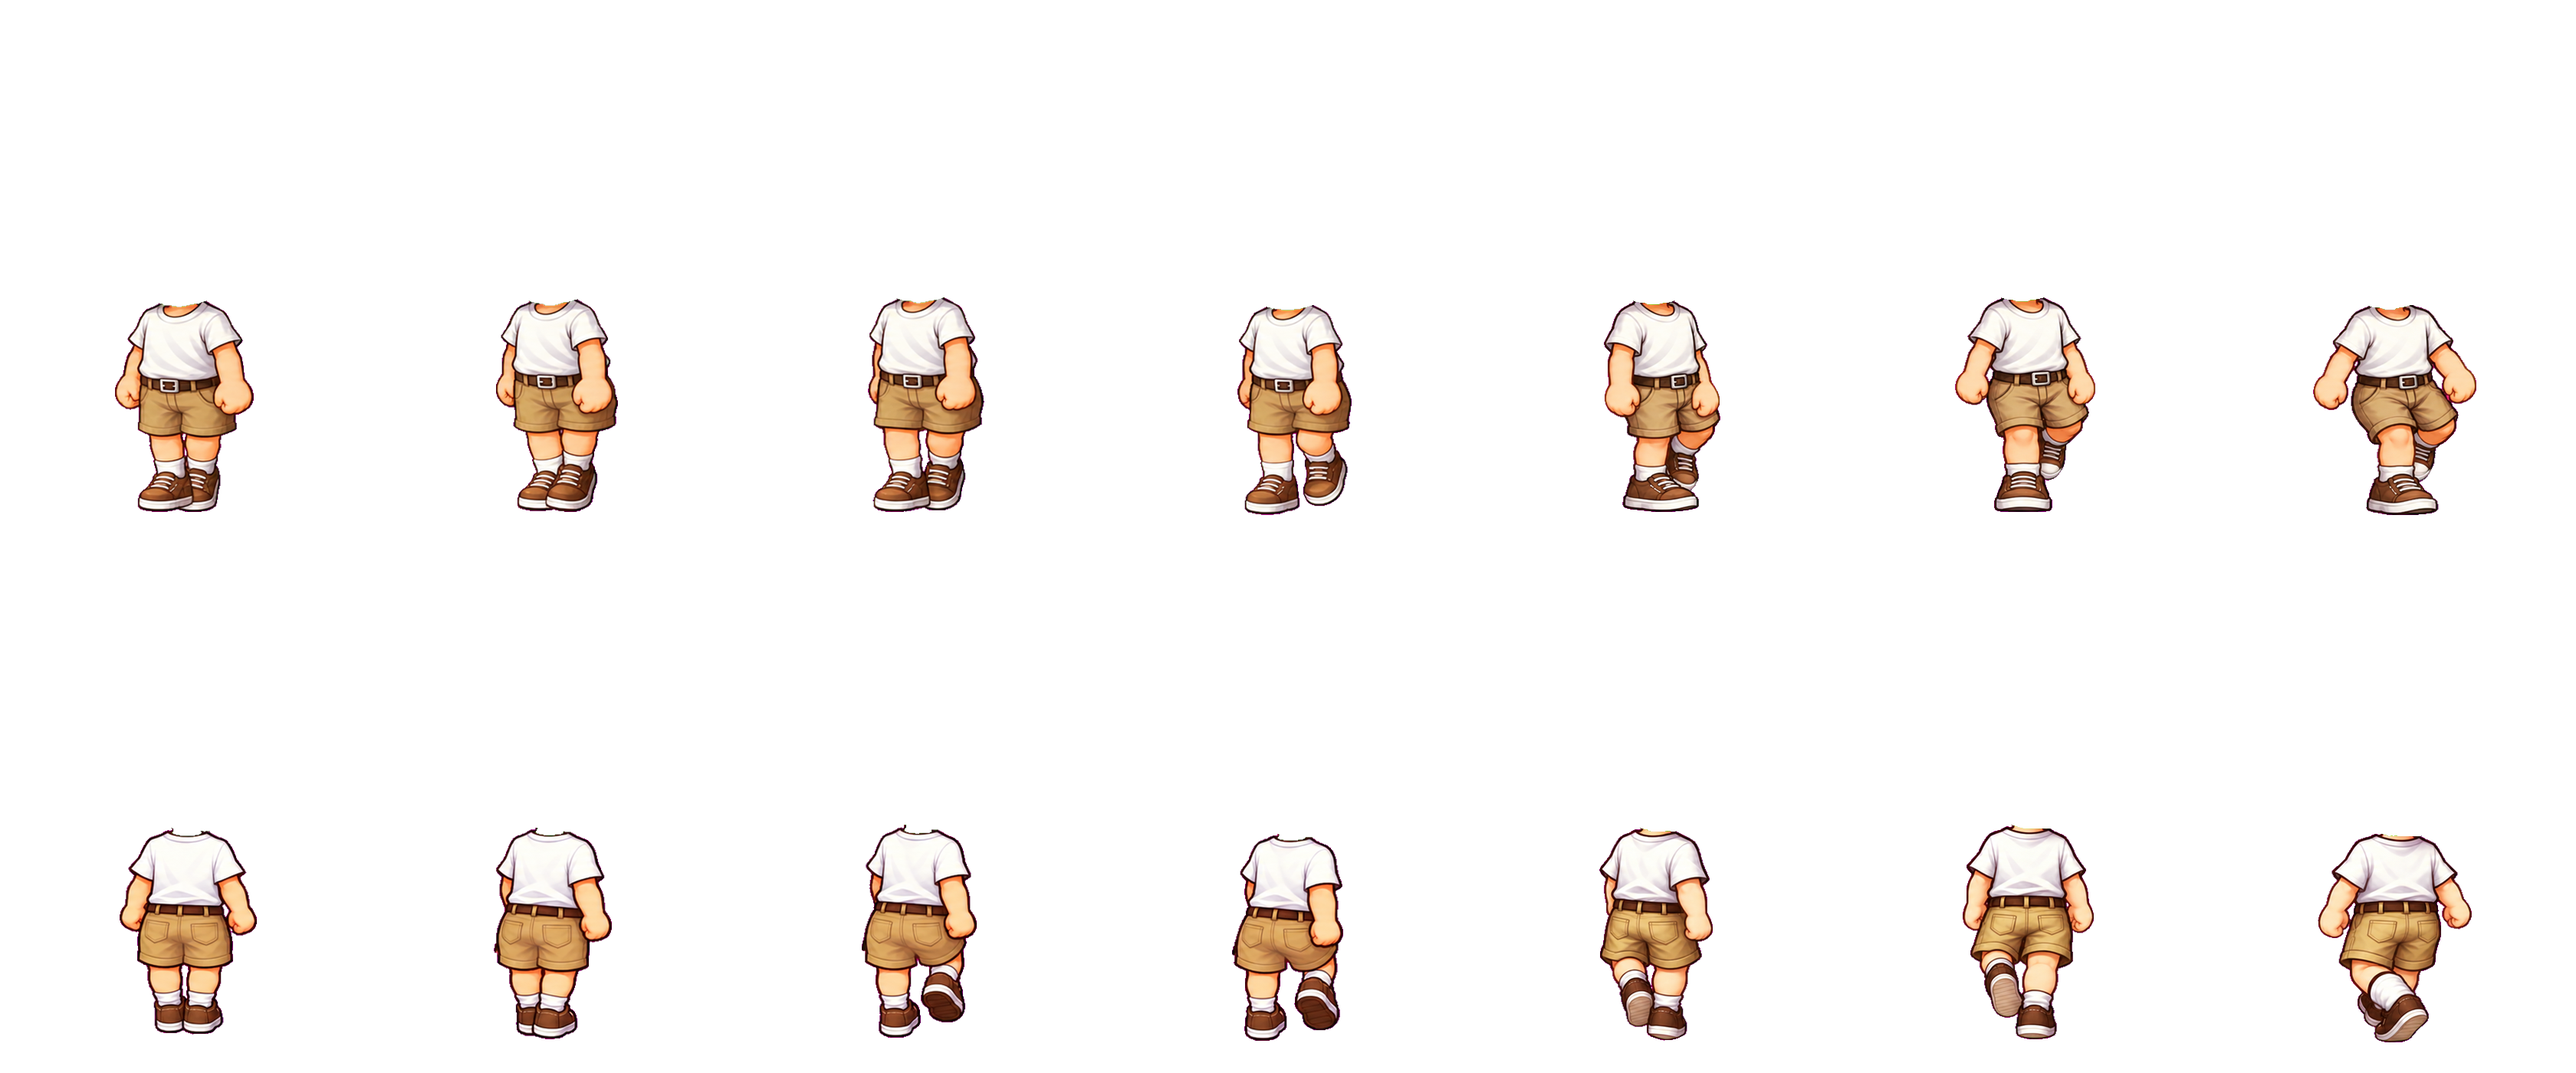
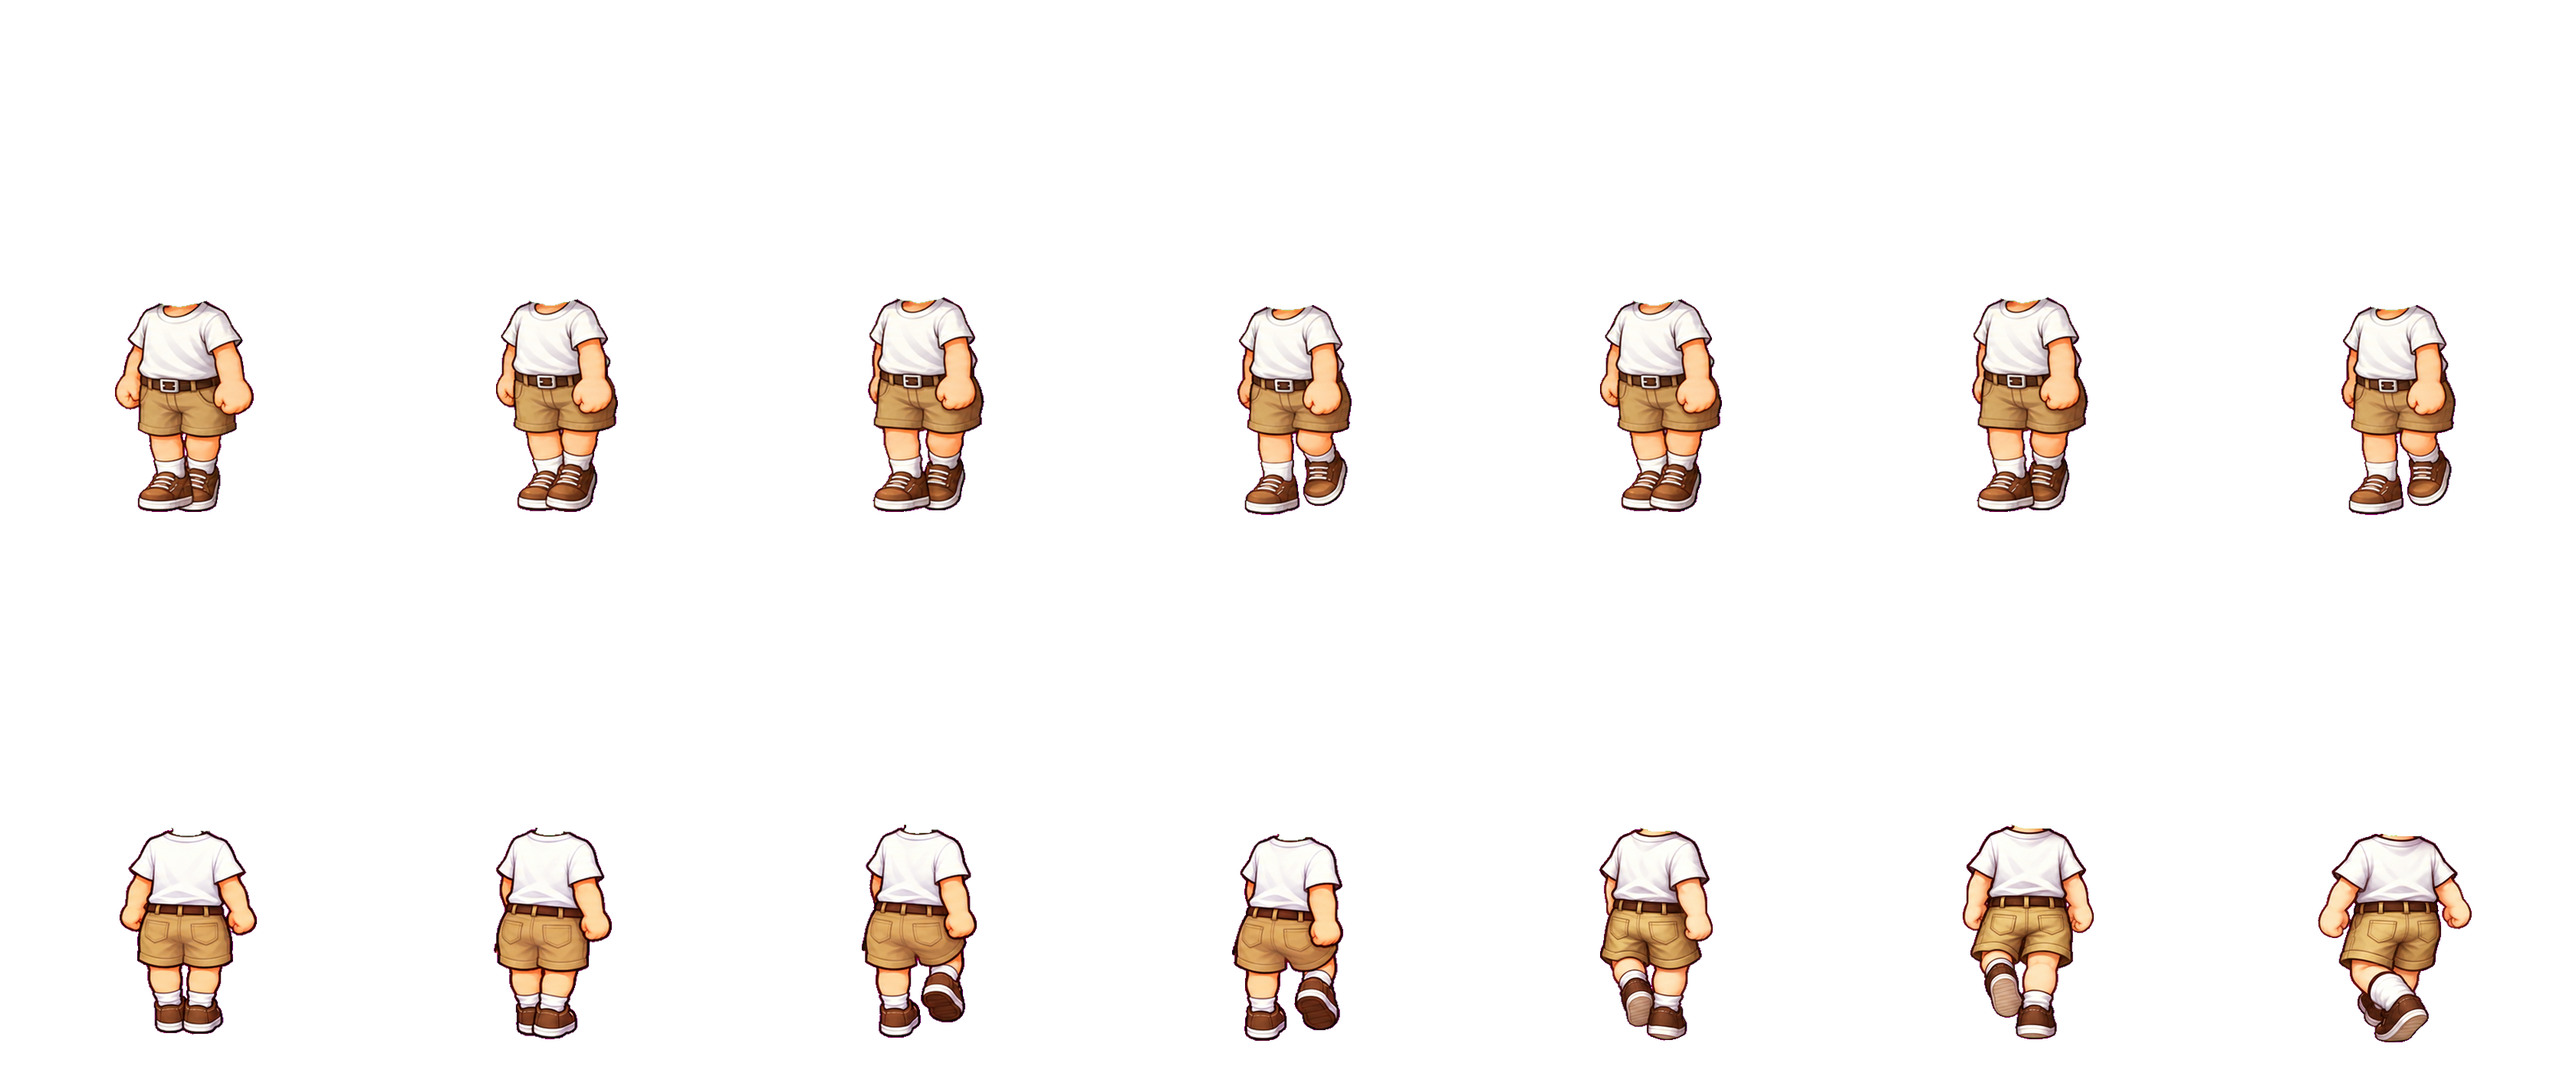
Praça: andar de frente/lado só com os quadros que combinam
Os quadros 4-6 saíram duas vezes com passos maiores e o corpo mais virado; o
ciclo repete os quadros 1-3.

Changed region(s): [[0.875, 0.2764, 0.9688, 0.4914], [0.75, 0.2764, 0.8125, 0.4914], [0.625, 0.2764, 0.6875, 0.4914]]

diff --git a/scripts/kit-v5/build-rig.py b/scripts/kit-v5/build-rig.py
@@ -202,5 +202,9 @@ for n, lot in enumerate(pm['lots']):
     for k, col in enumerate(lot['cols']):
         cell = key_out(sheet.crop((k * 480, 0, k * 480 + 480, 700)))
         vbody.paste(fit_to_mold(cell, vmold_body[lot['row'] * 700:(lot['row'] + 1) * 700, col * 480:(col + 1) * 480]), (col * 480, lot['row'] * 700))
+# Andar de frente (também o dos lados, espelhado): os quadros 4-6 saíram duas vezes com passos maiores e o corpo mais
+# virado que os 1-3 (matheus 22/10: "a movimentação lateral ainda tá feia"); o ciclo repete os 1-3, que combinam.
+for col in (4, 5, 6):
+    vbody.paste(vbody.crop(((col - 3) * 480, 0, (col - 2) * 480, 700)), (col * 480, 0))
 save(vbody, 'virtual', 'outfit-basic-male')
 print('ok')
